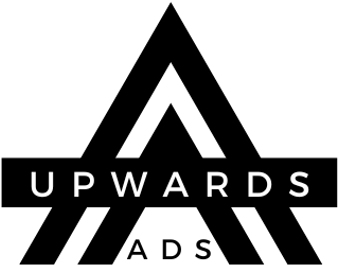
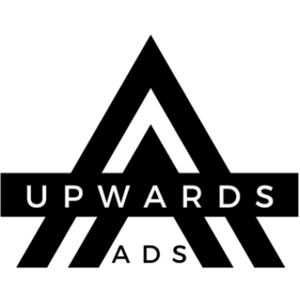
update metadata, use square image

diff --git a/app/layout.tsx b/app/layout.tsx
@@ -11,19 +11,27 @@ import { DESCRIPTION, TITLE } from "./data"
 export const metadata: Metadata = {
   title: TITLE,
   description: DESCRIPTION,
+
   icons: {
-    icon: "/assets/icon.png",
+    icon: {
+      url: "/assets/icon.png",
+      type: "image/png",
+    },
+    apple: {
+      url: "/assets/icon.png",
+      type: "image/png",
+    },
   },
   twitter: {
     card: "summary_large_image",
   },
   openGraph: {
-    url: "https://upwardsads.com",
+    url: "/",
     images: [
       {
-        width: 1200,
-        height: 1200,
-        url: "https://upwardsads.com/assets/icon.png",
+        width: 300,
+        height: 300,
+        url: "/assets/icon.png",
       },
     ],
   },

diff --git a/app/page.tsx b/app/page.tsx
@@ -48,7 +48,7 @@ export default function App() {
             <Image
               alt="About us"
               src="/assets/about.jpeg"
-              layout="fill"
+              fill
               style={{
                 objectFit: "cover",
                 objectPosition: "center",
